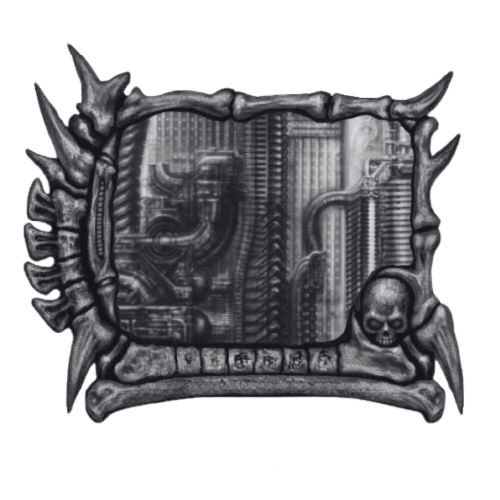
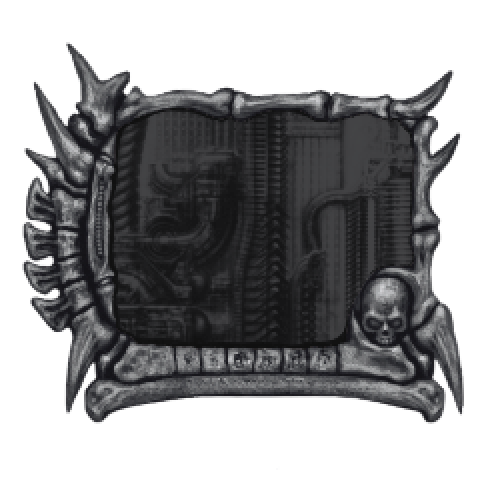
Added the general styling

diff --git a/blackcat-pomodoro/src/App.tsx b/blackcat-pomodoro/src/App.tsx
@@ -59,6 +59,7 @@ function App() {
   const focusCount = schedule.filter(s => s.type === "work").length;
   const typeTotal = isBreak ? breakCount : focusCount;
   const sessionNumber = sessionIndex + 1;
+  const [editing, setEditing] = useState<"work" | "break">("work");
 
   const typeNumber = schedule
     .slice(0, sessionIndex + 1)
@@ -108,7 +109,7 @@ useEffect(() => {
     if (isRunning && timeLeft > 0) {
       timer = setInterval( () => {
         setTimeLeft(prev => prev - 1);
-      }, 10);
+      }, 1000);
     }
     return() => clearInterval(timer);
   }, [isRunning, timeLeft]);
@@ -195,74 +196,85 @@ useEffect(() => {
     }
   };
 
+  const handleBack = () => {
+    if (page === "settings") {
+      if (editing === "work") {
+        changeWork(-WORK_STEP);
+      } else {
+        changeBreak(-BREAK_STEP);
+      }
+    } else {
+      changeTotal(-STEP);
+    }
+  };
 
-if (page === "settings") {
+  const handleForward = () => {
+    if (page === "settings") {
+      if (editing === "work") {
+        changeWork(WORK_STEP);
+      } else {
+        changeBreak(BREAK_STEP);
+      }
+    } else {
+      changeTotal(STEP);
+    }
+  }
+
+  const handleSettings = () => {
+    if (page === "settings") {
+      closeSettings();
+    } else {
+      setPage("settings");
+    }
+  }
+
+
   return (
-    <div className="settings-content">
-      <h1 className="settings-title">Settings</h1>
-      <div className="settings-row">
-        <p className="settings-label">Focus Length</p>
-        <div className="home-controlls">
-          <button className="image-button" onClick={() => changeWork(-WORK_STEP)}>-</button>
-          <h1 className="total-text">{workMinutes} min</h1>
-          <button className="image-button" onClick={() => changeWork(WORK_STEP)}>+</button>
+    <div className="app">
+      <div className="frame">
+        <div className="screen">
+          {page === "settings" ? (
+            <>
+              <p className="settings-header">&gt;&gt; Settings</p>
+              <p className="screen-label">{editing === "work" ? "Focus" : "Break"}</p>
+              <h1 className="screen-timer">
+                {formatTime((editing === "work" ? workMinutes : breakMinutes) * 60)}
+              </h1>
+              <button className="screen-link" onClick={closeSettings}>&gt;&gt; back</button>
+            </>
+          ) : (
+            <>
+              <p className="screen-label">{isRunning ? encouragement : ""}</p>
+              <h1 className="screen-timer">
+                {formatTime(isRunning ? timeLeft : totalMinutes * 60)}
+              </h1>
+              <p className="screen-label">
+                {isBreak ? "Break" : "Focus"} {typeNumber} of {typeTotal}
+              </p>
+            </>
+          )}
+        </div>
+        {/* Button Bar */}
+        <div className="button-bar">
+          <button className="pixel-btn btn-back" onClick={handleBack} disabled={isRunning} aria-label="Decrease" />
+          <button className="pixel-btn btn-forward" onClick={handleForward} disabled={isRunning} aria-label="Increase" />
+          <button className="pixel-btn btn-play" onClick={handleClick} disabled={page === "settings"} aria-label="Start or stop" />
+          <button
+            className={`pixel-btn btn-work ${editing === "work" ? "selected" : ""}`}
+            onClick={() => setEditing("work")}
+            disabled={page !== "settings"}
+            aria-label="Edit focus time"
+          />
+          <button
+            className={`pixel-btn btn-break ${editing === "break" ? "selected" : ""}`}
+            onClick={() => setEditing("break")}
+            disabled={page !== "settings"}
+            aria-label="Edit break time"
+          />
+          <button className="pixel-btn btn-settings" onClick={handleSettings} disabled={isRunning} aria-label="Settings" />
         </div>
       </div>
-
-      <div className="settings-row">
-        <p className="settings-label">Break Length</p>
-        <div className="home-controlls">
-          <button className="image-button" onClick={() => changeBreak(-BREAK_STEP)}>-</button>
-          <h1 className="total-text">{breakMinutes} min</h1>
-          <button className="image-button" onClick={() => changeBreak(BREAK_STEP)}>+</button>
-        </div>
-      </div>
-
-      <button className="home-button" onClick={closeSettings}>
-        Back
-      </button>
     </div>
-  );
-}
-  return (
-    <div style={{position: 'relative'}}>
-      <div>
-        <button className="closeButton">
-          Close
-        </button>
-      </div>
-    
-      <div className="home-content">
-        {isRunning ? (
-          <>
-            <p className="encouragement-text">{encouragement}</p>
-
-            <h1 className="timer">{formatTime(timeLeft)}</h1>
-
-            <p className="session-text">
-              {isBreak ? "Break" : "Focus"} · {typeNumber} out of {typeTotal} · {totalMinutes} min total
-            </p>
-          </>
-        ) : (
-          <>
-            <div className = "home-controlls">
-              <button className="image-button" onClick={() => changeTotal(-STEP)}>-</button>
-              <h1 className="total-text">{totalMinutes} min</h1>
-              <button className="image-button" onClick={() => changeTotal(STEP)}>+</button>
-            </div>  
-
-            <p className="session-text">{breakText(breakCount)}</p>
-            
-          </>
-        )}
-        <button className="home-button" onClick={handleClick}>
-          {isRunning ? "Stop" : "Start"}
-        </button>
-        <button className="settings-button" onClick={() => setPage("settings")}>Settings</button>
-      </div>
-    </div>
-    
-    
   );
 }
 

diff --git a/blackcat-pomodoro/src/App.css b/blackcat-pomodoro/src/App.css
@@ -1,102 +1,125 @@
-/*@font-face {
-  font-family: 'Retrograde-Regular';
-  src: url('./assets/Retrograde-Regular.otf') format('opentype');
+@font-face {
+  font-family: 'Minecraft';
+  src: url('./assets/Minecraft.ttf') format('truetype');
   font-weight: normal;
   font-style: normal;
 }
-*/
 body {
-  font-family: 'Retrograde-Regular', sans-serif;
+  font-family: 'Minecraft';
   margin: 0;
   padding: 0;
 }
 
-.home-container {
-  width: 400px;
-  height: 400px;
-  background-image: url('C:\Users\bhebh\OneDrive\Documents\CODING\Projects\BlackCatPomodoro\blackcat-pomodoro\src\assets\background.png');
-  background-size: cover;
-  background-position: center;
-  display: flex;
-  align-items: center;
-  justify-content: center;
-  border-radius: 12px;
-  box-sizing: border-box;
-  text-align: center;
+body {
+  background: #1e1e1e;
 }
 
-.home-content {
+.app {
+  display: flex;
+  justify-content: center;
+}
+
+.frame {
+  position: relative;            /* children are positioned from HERE */
+  width: 400px;
+  height: 400px;
+  background: url('./assets/background.png') center / contain no-repeat;
+}
+
+.screen {
+  position: absolute;
+  left: 100px;                   /* ⚠ estimates: tune these in Step 6 */
+  top: 84px;
+  width: 232px;
+  height: 184px;
+
   display: flex;
   flex-direction: column;
   align-items: center;
-  justify-content: space-between;
-  height: 100%;
-  width: 100%;
-  padding-top: 60px;
-  padding-bottom: 20px;
-  box-sizing: border-box;
-}
-
-.encouragement-text {
-  font-size: 1.25rem;
-  color: #b1cad8;
-  margin-bottom: 0.5rem;
-  animation: fadeIn 1s ease-in-out;
-  transition: opacity 0.8s ease;
-
-}
-
-.encouragement-text.hidden {
-  opacity: 0;
-}
-
-
-.home-controls {
-  display: flex;
   justify-content: center;
+  gap: 4px;
+  color: white;
+  text-align: center;
+}
+
+.screen-timer {
+  font-size: 56px;
   margin: 0;
 }
 
-.image-button {
-  background: none;
-  border: none;
-  cursor: pointer;
+.screen-label {
+  font-size: 12px;
+  margin: 0;
+  min-height: 14px;              /* keeps space even when empty */
 }
 
-.image-button img {
-  width: 100px;
-}
-
-.home-timer {
-  font-size: 60px;
-  color: #d09caf;
+.screen-heading,
+.screen-link {
+  align-self: flex-start;        /* the ">> Settings" text sits on the left */
+  font-size: 12px;
   margin: 0;
 }
 
-.gif-image {
-  height:100px;
-}
-
-.home-button {
+.screen-link {
   background: none;
   border: none;
+  color: white;
+  font-family: inherit;
+  padding: 0;
   cursor: pointer;
 }
 
-.home-button img {
-  width: 60px;
+.button-bar {
+    position: absolute;
+    left: 141px;
+    top: 277px;
+    width: 124px;
+    height: 22px;
+    display: flex;
+    justify-content: space-between;
 }
 
-.close-button {
-  position: absolute;
-  top: 10px;
-  right: 10px;
-  background: none;
-  border: none;
-  cursor: pointer;
+.pixel-btn {
+    width: 30px;
+    height: 22px;
+    margin: 0px;
+    padding: 0;
+    border: none;
+    cursor: pointer;
+    background-color: transparent;
+    background-repeat: no-repeat;
+    background-position: center;
+    background-size: 183%;
+    image-rendering: pixelated;
 }
 
-.close-button img {
-  width: 24px;
-  height: 24px;
+.pixel-btn:disabled {
+  opacity: 0.35;
+  cursor: default;
 }
+
+/* normal → clicked */
+.btn-back             { background-image: url('./assets/backBtn.png'); }
+.btn-back:active      { background-image: url('./assets/backClkBtn.png'); }
+
+.btn-forward          { background-image: url('./assets/forwardBtn.png'); }
+.btn-forward:active   { background-image: url('./assets/forwardClkBtn.png'); }
+
+.btn-play             { background-image: url('./assets/playBtn.png'); }
+.btn-play:active      { background-image: url('./assets/playClkBtn.png'); }
+
+.btn-settings { 
+  background-image: url('./assets/iterateBtn.png');
+  margin-left: 10px;
+ }
+.btn-settings:active  { background-image: url('./assets/iterateClkBtn.png'); }
+
+/* work & break also stay pressed while selected */
+.btn-work             { background-image: url('./assets/workBtn.png'); }
+.btn-work:active,
+.btn-work.selected    { background-image: url('./assets/workClkBtn.png'); }
+
+.btn-break            { background-image: url('./assets/breakBtn.png'); }
+.btn-break:active,
+.btn-break.selected   { background-image: url('./assets/breakClkBtn.png'); }
+
